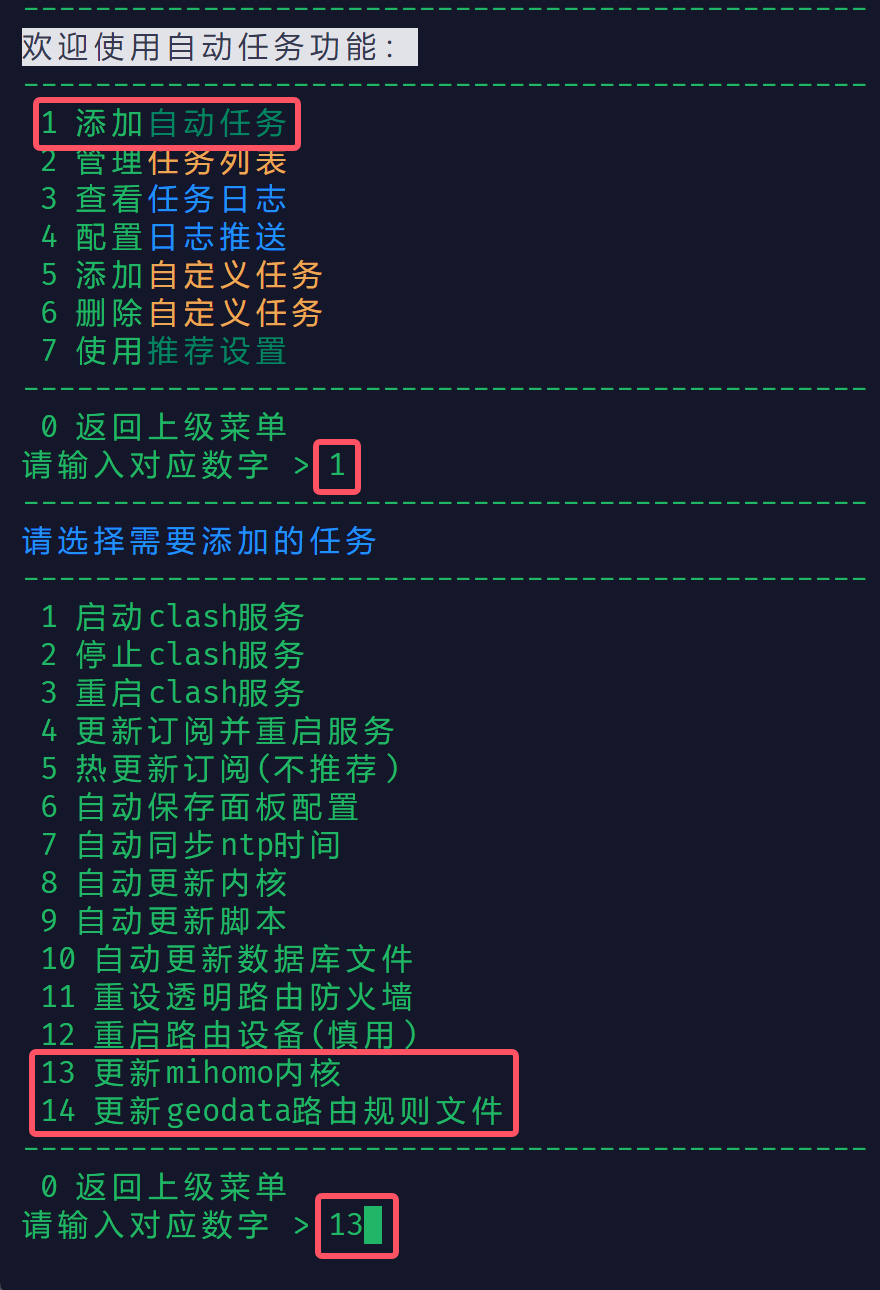
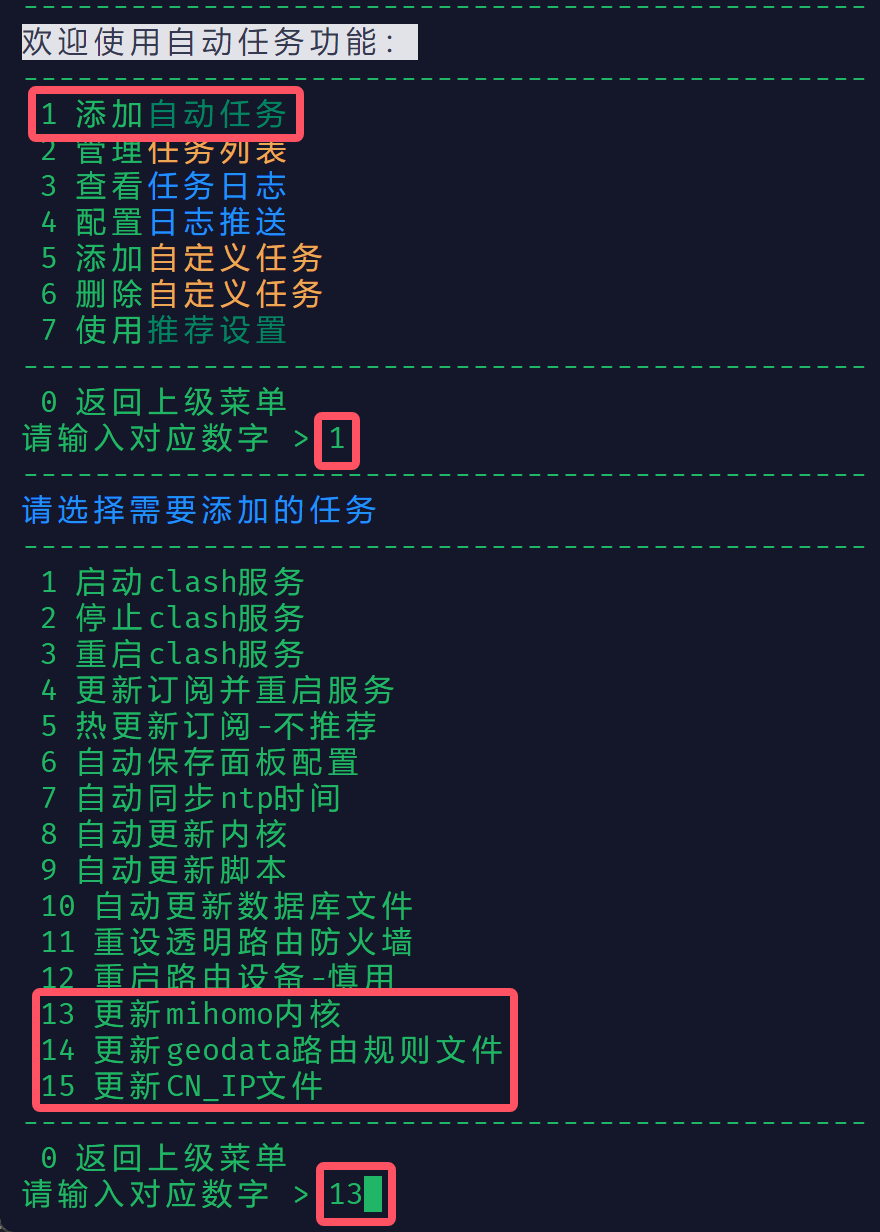
分享篇 ShellCrash 都开启绕过 CNIP；修改部分错误

diff --git a/_posts/2024-08-22-share-shellcrash-singboxp-ruleset.md b/_posts/2024-08-22-share-shellcrash-singboxp-ruleset.md
@@ -9,7 +9,7 @@ tags: [sing-box, sing-boxp, ShellCrash, ruleset, rule_set, 分享, Router]
 ## 声明：
 1. 请根据自身情况进行修改，**适合自己的方案才是最好的方案**，如无特殊需求，可以照搬
 2. 此方案适用于 [ShellCrash](https://github.com/juewuy/ShellCrash)（以 arm64 架构为例，且安装路径为 */data/ShellCrash*）
-3. 此方案已摒弃 [AdGuard Home](https://github.com/AdguardTeam/AdGuardHome)，但拦截广告效果依然强劲
+3. 本方案绕过了 CNIP 且不搭配 [AdGuard Home](https://github.com/AdguardTeam/AdGuardHome)，但拦截广告效果依然强劲
 
 ## 一、 生成配置文件 .json 文件直链
 具体方法此处不再赘述，请看《[生成带有自定义出站和规则的 sing-box 配置文件直链-ruleset 方案](https://proxy-tutorials.dustinwin.top/posts/link-singbox-ruleset)》，贴一下我使用的配置：
@@ -226,7 +226,8 @@ curl -L https://cdn.jsdelivr.net/gh/DustinWin/clash_singbox-tools@sing-box/sing-
       "dns.alidns.com": [ "223.5.5.5", "223.6.6.6", "2400:3200::1", "2400:3200:baba::1" ],
       "dns.google": [ "8.8.8.8", "8.8.4.4", "2001:4860:4860::8888", "2001:4860:4860::8844" ],
       "cloudflare-dns.com": [ "1.1.1.1", "1.0.0.1", "2606:4700:4700::1111", "2606:4700:4700::1001" ],
-      "miwifi.com": [ "192.168.31.1" ]
+      "miwifi.com": [ "192.168.31.1" ],
+      "services.googleapis.cn": [ "services.googleapis.com" ]
     },
     "servers": [
       { "tag": "dns_block", "address": "rcode://success" },
@@ -238,9 +239,9 @@ curl -L https://cdn.jsdelivr.net/gh/DustinWin/clash_singbox-tools@sing-box/sing-
       { "outbound": [ "any" ], "server": "dns_direct" },
       { "clash_mode": [ "Direct" ], "query_type": [ "A", "AAAA" ], "server": "dns_direct" },
       { "clash_mode": [ "Global" ], "query_type": [ "A", "AAAA" ], "server": "dns_proxy" },
+      { "rule_set": [ "cn" ], "query_type": [ "A", "AAAA" ], "server": "dns_direct" },
       { "rule_set": [ "ads" ], "server": "dns_block", "disable_cache": true, "rewrite_ttl": 0 },
       { "rule_set": [ "proxy" ], "query_type": [ "A", "AAAA" ], "server": "dns_fakeip", "rewrite_ttl": 1 },
-      { "rule_set": [ "cn" ], "query_type": [ "A", "AAAA" ], "server": "dns_direct" },
       { "fallback_rules": [ { "rule_set": [ "cnip" ], "server": "dns_direct" }, { "match_all": true, "server": "dns_fakeip", "rewrite_ttl": 1 } ], "server": "dns_proxy", "allow_fallthrough": true }
     ],
     "final": "dns_direct",
@@ -266,11 +267,12 @@ curl -L https://cdn.jsdelivr.net/gh/DustinWin/clash_singbox-tools@sing-box/sing-
 
 ```shell
 201#curl -o /data/ShellCrash/CrashCore.tar.gz -L https://ghp.ci/https://github.com/DustinWin/clash_singbox-tools/releases/download/sing-box/sing-box-puernya-linux-armv8.tar.gz && /data/ShellCrash/start.sh restart >/dev/null 2>&1#更新sing-box_PuerNya版内核
+202#curl -o /data/ShellCrash/cn_ip.txt -L https://ghp.ci/https://github.com/DustinWin/geoip/releases/download/ips/cn_ipv4.txt && curl -o /data/ShellCrash/cn_ipv6.txt -L https://ghp.ci/https://github.com/DustinWin/geoip/releases/download/ips/cn_ipv6.txt >/dev/null 2>&1#更新CN_IP文件
 ```
 
 2. 按一下 Esc 键（退出键），输入英文冒号 `:`，继续输入 `wq` 并回车
 3. 执行 `crash`，进入 ShellCrash -> 5 配置自动任务 -> 1 添加自动任务，可以看到末尾就有添加的定时任务，输入对应的数字并回车后可设置执行条件  
-<img src="/assets/img/share/task-singbox.png" alt="添加定时任务" width="60%" />
+<img src="/assets/img/share/task-singbox-ruleset.png" alt="添加定时任务" width="60%" />
 
 ## 五、 新建文件夹
 连接 SSH 后执行命令 `mkdir -p $CRASHDIR/providers/ $CRASHDIR/ruleset/`  
@@ -280,8 +282,8 @@ curl -L https://cdn.jsdelivr.net/gh/DustinWin/clash_singbox-tools@sing-box/sing-
 
 ## 六、 设置部分
 1. 设置可参考《[ShellCrash 搭载 sing-boxp 内核的配置-ruleset 方案](https://proxy-tutorials.dustinwin.top/posts/toolsettings-shellcrash-singboxp-ruleset)》，此处只列举配置的不同之处
-2. 进入主菜单 -> 2 内核功能设置 -> 2 切换 DNS 模式，选择 1 fake-ip 模式（不会与导入 mix 模式的 dns.json 冲突）  
-<img src="/assets/img/share/tproxy-fake-ip.png" alt="设置部分 1" width="60%" />
+2. 进入主菜单 -> 2 内核功能设置，设置如下：  
+<img src="/assets/img/share/tproxy-mix-cnip.png" alt="设置部分 1" width="60%" />
 
 3. 返回到 2 切换 DNS 运行模式，进入 4 DNS 进阶设置，设置如下：  
 <img src="/assets/img/share/dns-null.png" alt="设置部分 2" width="60%" />

diff --git a/_posts/2024-08-22-share-shellcrash-singboxp-geodata.md b/_posts/2024-08-22-share-shellcrash-singboxp-geodata.md
@@ -9,7 +9,7 @@ tags: [sing-box, sing-boxp, ShellCrash, geodata, geosite, 分享, Router]
 ## 声明：
 1. 请根据自身情况进行修改，**适合自己的方案才是最好的方案**，如无特殊需求，可以照搬
 2. 此方案适用于 [ShellCrash](https://github.com/juewuy/ShellCrash)（以 arm64 架构为例，且安装路径为 */data/ShellCrash*）
-3. 此方案已摒弃 [AdGuard Home](https://github.com/AdguardTeam/AdGuardHome)，但拦截广告效果依然强劲
+3. 本方案绕过了 CNIP 且不搭配 [AdGuard Home](https://github.com/AdguardTeam/AdGuardHome)，但拦截广告效果依然强劲
 
 ## 一、 生成配置文件 .json 文件直链
 具体方法此处不再赘述，请看《[生成带有自定义出站和规则的 sing-box 配置文件直链-geodata 方案](https://proxy-tutorials.dustinwin.top/posts/link-singbox-geodata)》，贴一下我使用的配置：
@@ -143,7 +143,8 @@ curl -o $CRASHDIR/geoip.db -L https://cdn.jsdelivr.net/gh/DustinWin/ruleset_geod
       "dns.alidns.com": [ "223.5.5.5", "223.6.6.6", "2400:3200::1", "2400:3200:baba::1" ],
       "dns.google": [ "8.8.8.8", "8.8.4.4", "2001:4860:4860::8888", "2001:4860:4860::8844" ],
       "cloudflare-dns.com": [ "1.1.1.1", "1.0.0.1", "2606:4700:4700::1111", "2606:4700:4700::1001" ],
-      "miwifi.com": [ "192.168.31.1" ]
+      "miwifi.com": [ "192.168.31.1" ],
+      "services.googleapis.cn": [ "services.googleapis.com" ]
     },
     "servers": [
       { "tag": "dns_block", "address": "rcode://success" },
@@ -155,9 +156,9 @@ curl -o $CRASHDIR/geoip.db -L https://cdn.jsdelivr.net/gh/DustinWin/ruleset_geod
       { "outbound": [ "any" ], "server": "dns_direct" },
       { "clash_mode": [ "Direct" ], "query_type": [ "A", "AAAA" ], "server": "dns_direct" },
       { "clash_mode": [ "Global" ], "query_type": [ "A", "AAAA" ], "server": "dns_proxy" },
+      { "geosite": [ "cn" ], "query_type": [ "A", "AAAA" ], "server": "dns_direct" },
       { "geosite": [ "ads" ], "server": "dns_block", "disable_cache": true, "rewrite_ttl": 0 },
       { "geosite": [ "proxy" ], "query_type": [ "A", "AAAA" ], "server": "dns_fakeip", "rewrite_ttl": 1 },
-      { "geosite": [ "cn" ], "query_type": [ "A", "AAAA" ], "server": "dns_direct" },
       { "fallback_rules": [ { "geoip": [ "cn" ], "server": "dns_direct" }, { "match_all": true, "server": "dns_fakeip", "rewrite_ttl": 1 } ], "server": "dns_proxy", "allow_fallthrough": true }
     ],
     "final": "dns_direct",
@@ -184,6 +185,7 @@ curl -o $CRASHDIR/geoip.db -L https://cdn.jsdelivr.net/gh/DustinWin/ruleset_geod
 ```shell
 201#curl -o /data/ShellCrash/CrashCore.tar.gz -L https://ghp.ci/https://github.com/DustinWin/clash_singbox-tools/releases/download/sing-box/sing-box-puernya-linux-armv8.tar.gz && /data/ShellCrash/start.sh restart >/dev/null 2>&1#更新sing-box_PuerNya版内核
 202#curl -o /data/ShellCrash/geosite.db -L https://ghp.ci/https://github.com/DustinWin/ruleset_geodata/releases/download/sing-box/geosite.db && curl -o /data/ShellCrash/geoip.db -L https://ghp.ci/https://github.com/DustinWin/ruleset_geodata/releases/download/sing-box/geoip-lite.db && /data/ShellCrash/start.sh restart >/dev/null 2>&1#更新geodata路由规则文件
+203#curl -o /data/ShellCrash/cn_ip.txt -L https://ghp.ci/https://github.com/DustinWin/geoip/releases/download/ips/cn_ipv4.txt && curl -o /data/ShellCrash/cn_ipv6.txt -L https://ghp.ci/https://github.com/DustinWin/geoip/releases/download/ips/cn_ipv6.txt >/dev/null 2>&1#更新CN_IP文件
 ```
 
 2. 按一下 Esc 键（退出键），输入英文冒号 `:`，继续输入 `wq` 并回车
@@ -196,8 +198,8 @@ curl -o $CRASHDIR/geoip.db -L https://cdn.jsdelivr.net/gh/DustinWin/ruleset_geod
 
 ## 七、 设置部分
 1. 设置可参考《[ShellCrash 搭载 sing-boxp 内核的配置-geodata 方案](https://proxy-tutorials.dustinwin.top/posts/toolsettings-shellcrash-singboxp-geodata)》，此处只列举配置的不同之处
-2. 进入主菜单 -> 2 内核功能设置 -> 2 切换 DNS 模式，选择 1 fake-ip 模式（不会与导入 mix 模式的 dns.json 冲突）  
-<img src="/assets/img/share/tproxy-fake-ip.png" alt="设置部分 1" width="60%" />
+2. 进入主菜单 -> 2 内核功能设置，设置如下：  
+<img src="/assets/img/share/tproxy-mix-cnip.png" alt="设置部分 1" width="60%" />
 
 3. 返回到 2 切换 DNS 运行模式，进入 4 DNS 进阶设置，设置如下：  
 <img src="/assets/img/share/dns-null.png" alt="设置部分 2" width="60%" />

diff --git a/_posts/2024-08-21-share-shellcrash-mihomo-geodata.md b/_posts/2024-08-21-share-shellcrash-mihomo-geodata.md
@@ -9,7 +9,7 @@ tags: [Clash, mihomo, ShellCrash, geodata, geosite, 分享, Router]
 ## 声明：
 1. 请根据自身情况进行修改，**适合自己的方案才是最好的方案**，如无特殊需求，可以照搬
 2. 此方案适用于 [ShellCrash](https://github.com/juewuy/ShellCrash)（以 arm64 架构为例，且安装路径为 */data/ShellCrash*）
-3. 此方案已摒弃 [AdGuard Home](https://github.com/AdguardTeam/AdGuardHome)，但拦截广告效果依然强劲
+3. 本方案绕过了 CNIP 且不搭配 [AdGuard Home](https://github.com/AdguardTeam/AdGuardHome)，但拦截广告效果依然强劲
 
 ## 一、 生成配置文件 .yaml 文件直链
 具体方法此处不再赘述，请看《[生成带有自定义策略组和规则的 Clash 配置文件直链-geodata 方案](https://proxy-tutorials.dustinwin.top/posts/link-clash-geodata)》，贴一下我使用的配置：
@@ -118,6 +118,8 @@ curl -L https://cdn.jsdelivr.net/gh/DustinWin/clash_singbox-tools@mihomo/mihomo-
 curl -o $CRASHDIR/GeoSite.dat -L https://cdn.jsdelivr.net/gh/DustinWin/ruleset_geodata@clash/geosite.dat
 curl -o $CRASHDIR/GeoIP.dat -L https://cdn.jsdelivr.net/gh/DustinWin/ruleset_geodata@clash/geoip-lite.dat
 curl -o $CRASHDIR/Country.mmdb -L https://cdn.jsdelivr.net/gh/DustinWin/ruleset_geodata@clash/Country-lite.mmdb
+curl -o $CRASHDIR/cn_ip.txt -L https://cdn.jsdelivr.net/gh/DustinWin/geoip@ips/cn_ipv4.txt
+curl -o $CRASHDIR/cn_ipv6.txt -L https://cdn.jsdelivr.net/gh/DustinWin/geoip@ips/cn_ipv6.txt
 ```
 
 ## 四、 编辑 user.yaml 文件
@@ -169,6 +171,7 @@ dns:
 ```shell
 201#curl -o /data/ShellCrash/CrashCore.tar.gz -L https://ghp.ci/https://github.com/DustinWin/clash_singbox-tools/releases/download/mihomo/mihomo-alpha-linux-armv8.tar.gz && /data/ShellCrash/start.sh restart >/dev/null 2>&1#更新mihomo内核
 202#curl -o /data/ShellCrash/GeoSite.dat -L https://ghp.ci/https://github.com/DustinWin/ruleset_geodata/releases/download/clash/geosite.dat && curl -o /data/ShellCrash/GeoIP.dat -L https://ghp.ci/https://github.com/DustinWin/ruleset_geodata/releases/download/clash/geoip-lite.dat && curl -o /data/ShellCrash/Country.mmdb -L https://ghp.ci/https://github.com/DustinWin/ruleset_geodata/releases/download/clash/Country-lite.mmdb && /data/ShellCrash/start.sh restart >/dev/null 2>&1#更新geodata路由规则文件
+203#curl -o /data/ShellCrash/cn_ip.txt -L https://ghp.ci/https://github.com/DustinWin/geoip/releases/download/ips/cn_ipv4.txt && curl -o /data/ShellCrash/cn_ipv6.txt -L https://ghp.ci/https://github.com/DustinWin/geoip/releases/download/ips/cn_ipv6.txt >/dev/null 2>&1#更新CN_IP文件
 ```
 
 2. 按一下 Esc 键（退出键），输入英文冒号 `:`，继续输入 `wq` 并回车
@@ -178,7 +181,7 @@ dns:
 ## 六、 设置部分
 1. 设置可参考《[ShellCrash 搭载 mihomo 内核的配置-geodata 方案](https://proxy-tutorials.dustinwin.top/posts/toolsettings-shellcrash-mihomo-geodata)》，此处只列举配置的不同之处
 2. 进入主菜单 -> 2 内核功能设置，设置如下：  
-<img src="/assets/img/share/tproxy-mix.png" alt="设置部分 1" width="60%" />
+<img src="/assets/img/share/tproxy-mix-cnip.png" alt="设置部分 1" width="60%" />
 
 3. 进入主菜单 -> 2 内核功能设置 -> 2 切换 DNS 运行模式 -> 4 DNS 进阶设置，设置如下：  
 <img src="/assets/img/share/dns-null.png" alt="设置部分 2" width="60%" />

diff --git a/_posts/2024-08-21-share-shellcrash-mihomo-ruleset.md b/_posts/2024-08-21-share-shellcrash-mihomo-ruleset.md
@@ -9,7 +9,7 @@ tags: [Clash, mihomo, ShellCrash, ruleset, rule-set, 分享, Router]
 ## 声明：
 1. 请根据自身情况进行修改，**适合自己的方案才是最好的方案**，如无特殊需求，可以照搬
 2. 此方案适用于 [ShellCrash](https://github.com/juewuy/ShellCrash)（以 arm64 架构为例，且安装路径为 */data/ShellCrash*）
-3. 此方案已摒弃 [AdGuard Home](https://github.com/AdguardTeam/AdGuardHome)，但拦截广告效果依然强劲
+3. 本方案绕过了 CNIP 且不搭配 [AdGuard Home](https://github.com/AdguardTeam/AdGuardHome)，但拦截广告效果依然强劲
 
 ## 一、 生成配置文件 .yaml 文件直链
 具体方法此处不再赘述，请看《[生成带有自定义策略组和规则的 Clash 配置文件直链-ruleset 方案](https://proxy-tutorials.dustinwin.top/posts/link-clash-ruleset)》，贴一下我使用的配置：
@@ -267,16 +267,17 @@ dns:
 
 ```shell
 201#curl -o /data/ShellCrash/CrashCore.tar.gz -L https://ghp.ci/https://github.com/DustinWin/clash_singbox-tools/releases/download/mihomo/mihomo-alpha-linux-armv8.tar.gz && /data/ShellCrash/start.sh restart >/dev/null 2>&1#更新mihomo内核
+202#curl -o /data/ShellCrash/cn_ip.txt -L https://ghp.ci/https://github.com/DustinWin/geoip/releases/download/ips/cn_ipv4.txt && curl -o /data/ShellCrash/cn_ipv6.txt -L https://ghp.ci/https://github.com/DustinWin/geoip/releases/download/ips/cn_ipv6.txt >/dev/null 2>&1#更新CN_IP文件
 ```
 
 2. 按一下 Esc 键（退出键），输入英文冒号 `:`，继续输入 `wq` 并回车
 3. 执行 `crash`，进入 ShellCrash -> 5 配置自动任务 -> 1 添加自动任务，可以看到末尾就有添加的定时任务，输入对应的数字并回车后可设置执行条件  
-<img src="/assets/img/share/task-mihomo.png" alt="添加定时任务" width="60%" />
+<img src="/assets/img/share/task-mihomo-ruleset.png" alt="添加定时任务" width="60%" />
 
 ## 五、 设置部分
 1. 设置可参考《[ShellCrash 搭载 mihomo 内核的配置-ruleset 方案](https://proxy-tutorials.dustinwin.top/posts/toolsettings-shellcrash-mihomo-ruleset)》，此处只列举配置的不同之处
 2. 进入主菜单 -> 2 内核功能设置，设置如下：  
-<img src="/assets/img/share/tproxy-mix.png" alt="设置部分 1" width="60%" />
+<img src="/assets/img/share/tproxy-mix-cnip.png" alt="设置部分 1" width="60%" />
 
 3. 进入主菜单 -> 2 内核功能设置 -> 2 切换 DNS 运行模式 -> 4 DNS 进阶设置，设置如下：  
 <img src="/assets/img/share/dns-null.png" alt="设置部分 2" width="60%" />
